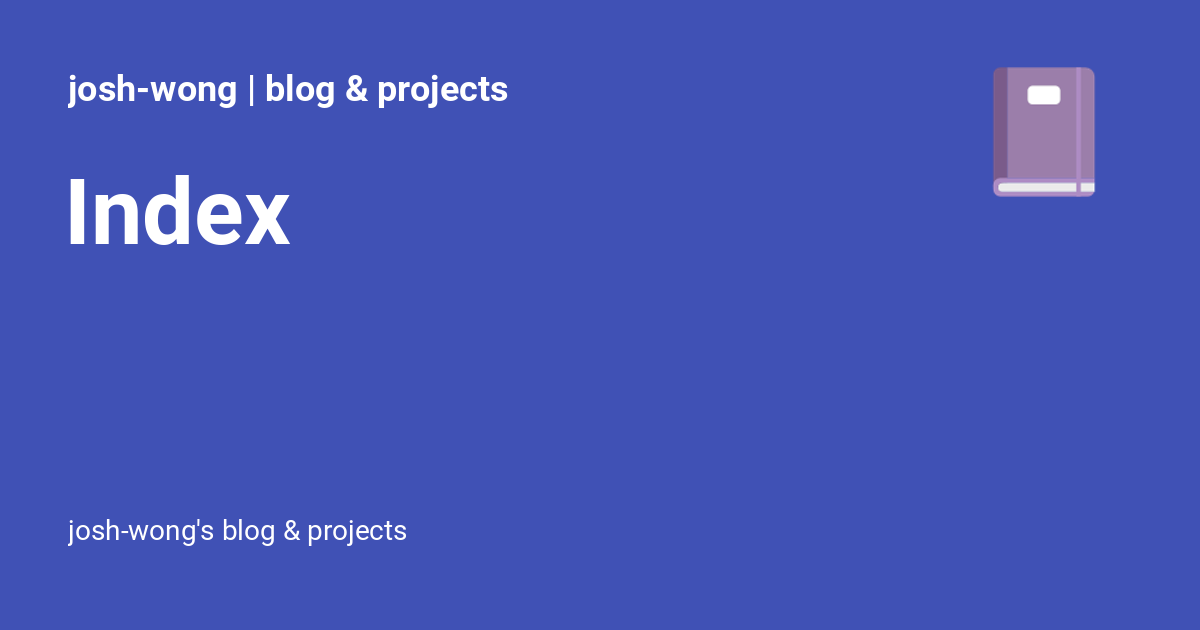
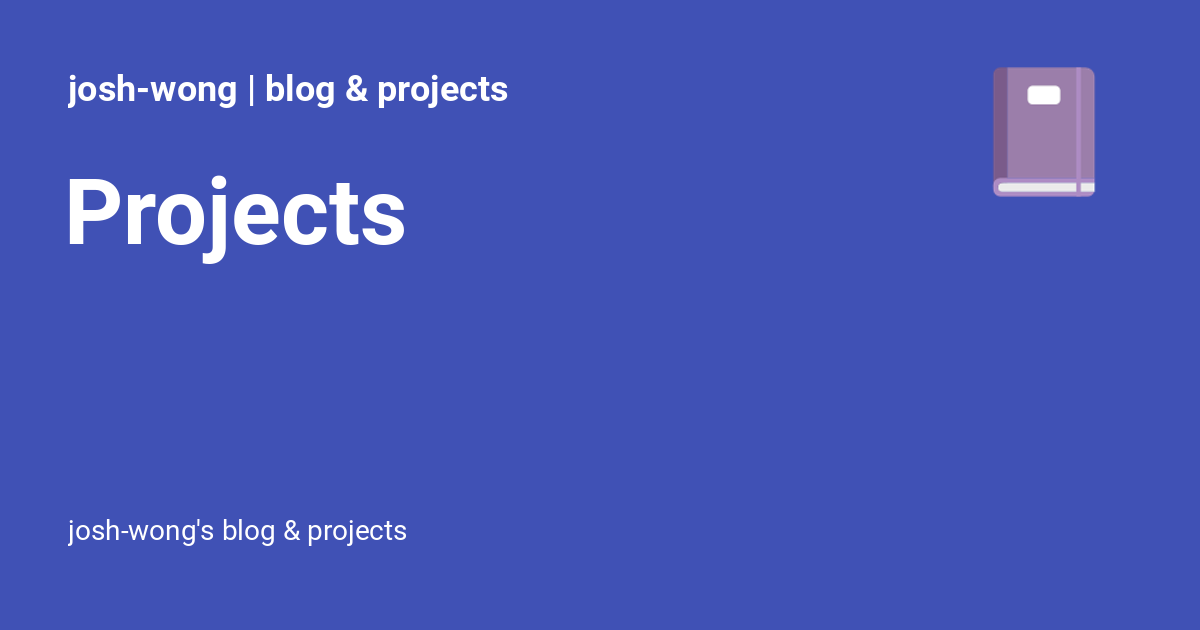
Deployed 4f7d2b0 with MkDocs version: 1.4.2

Changed region(s): [[0.0617, 0.2714, 0.3392, 0.4222]]

diff --git a/about/index.html b/about/index.html
@@ -1249,12 +1249,12 @@
 
 <h1 id="about-me">About me<a class="headerlink" href="#about-me" title="Permanent link">&para;</a></h1>
 <p>Hey there! My name is <a href="https://github.com/josh-wong/">Josh</a>, and I'm a <abbr title="A professional information communicator whose task is to transfer information between two or more parties">technical writer</abbr> and <abbr title="The collection of methods relating to creating, sharing, using, and managing the knowledge and information of an organization">knowledge management</abbr> specialist. </p>
-<p>I enjoy writing, improving user experiences, learning new things, and sharing knowledge.</p>
+<p>I enjoy writing, improving user experiences, learning new things, and sharing knowledge💡</p>
 <h2 id="why-080f53com">Why "080f53.com"?<a class="headerlink" href="#why-080f53com" title="Permanent link">&para;</a></h2>
-<p>I like the hex color <a href="https://encycolorpedia.com/080f53" target="_blank"><strong>#080f53</strong></a>, which is dark blue-violet. For consistency between domain name and design, I've applied this color throughout the site.</p>
-<p>Also, finding unique domain names is hard.</p>
+<p>I like the hex color <a href="https://encycolorpedia.com/080f53" target="_blank"><strong>#080f53</strong></a>, which is dark blue-violet.</p>
+<p>Also, finding unique domain names is hard😅</p>
 <h2 id="contact">Contact<a class="headerlink" href="#contact" title="Permanent link">&para;</a></h2>
-<p>Feel free to poke around and contact me if you have any questions!😊</p>
+<p>Feel free to poke around and contact me if you have any questions😊</p>
 <div class="grid cards">
 <ul>
 <li><span class="twemoji"><svg xmlns="http://www.w3.org/2000/svg" viewBox="0 0 448 512"><!--! Font Awesome Free 6.2.1 by @fontawesome - https://fontawesome.com License - https://fontawesome.com/license/free (Icons: CC BY 4.0, Fonts: SIL OFL 1.1, Code: MIT License) Copyright 2022 Fonticons, Inc.--><path d="M400 32H48C21.5 32 0 53.5 0 80v352c0 26.5 21.5 48 48 48h352c26.5 0 48-21.5 48-48V80c0-26.5-21.5-48-48-48zM277.3 415.7c-8.4 1.5-11.5-3.7-11.5-8 0-5.4.2-33 .2-55.3 0-15.6-5.2-25.5-11.3-30.7 37-4.1 76-9.2 76-73.1 0-18.2-6.5-27.3-17.1-39 1.7-4.3 7.4-22-1.7-45-13.9-4.3-45.7 17.9-45.7 17.9-13.2-3.7-27.5-5.6-41.6-5.6-14.1 0-28.4 1.9-41.6 5.6 0 0-31.8-22.2-45.7-17.9-9.1 22.9-3.5 40.6-1.7 45-10.6 11.7-15.6 20.8-15.6 39 0 63.6 37.3 69 74.3 73.1-4.8 4.3-9.1 11.7-10.6 22.3-9.5 4.3-33.8 11.7-48.3-13.9-9.1-15.8-25.5-17.1-25.5-17.1-16.2-.2-1.1 10.2-1.1 10.2 10.8 5 18.4 24.2 18.4 24.2 9.7 29.7 56.1 19.7 56.1 19.7 0 13.9.2 36.5.2 40.6 0 4.3-3 9.5-11.5 8-66-22.1-112.2-84.9-112.2-158.3 0-91.8 70.2-161.5 162-161.5S388 165.6 388 257.4c.1 73.4-44.7 136.3-110.7 158.3zm-98.1-61.1c-1.9.4-3.7-.4-3.9-1.7-.2-1.5 1.1-2.8 3-3.2 1.9-.2 3.7.6 3.9 1.9.3 1.3-1 2.6-3 3zm-9.5-.9c0 1.3-1.5 2.4-3.5 2.4-2.2.2-3.7-.9-3.7-2.4 0-1.3 1.5-2.4 3.5-2.4 1.9-.2 3.7.9 3.7 2.4zm-13.7-1.1c-.4 1.3-2.4 1.9-4.1 1.3-1.9-.4-3.2-1.9-2.8-3.2.4-1.3 2.4-1.9 4.1-1.5 2 .6 3.3 2.1 2.8 3.4zm-12.3-5.4c-.9 1.1-2.8.9-4.3-.6-1.5-1.3-1.9-3.2-.9-4.1.9-1.1 2.8-.9 4.3.6 1.3 1.3 1.8 3.3.9 4.1zm-9.1-9.1c-.9.6-2.6 0-3.7-1.5s-1.1-3.2 0-3.9c1.1-.9 2.8-.2 3.7 1.3 1.1 1.5 1.1 3.3 0 4.1zm-6.5-9.7c-.9.9-2.4.4-3.5-.6-1.1-1.3-1.3-2.8-.4-3.5.9-.9 2.4-.4 3.5.6 1.1 1.3 1.3 2.8.4 3.5zm-6.7-7.4c-.4.9-1.7 1.1-2.8.4-1.3-.6-1.9-1.7-1.5-2.6.4-.6 1.5-.9 2.8-.4 1.3.7 1.9 1.8 1.5 2.6z"/></svg></span> <strong><a href="https://github.com/josh-wong">GitHub</a></strong></li>

diff --git a/projects/index.html b/projects/index.html
@@ -24,7 +24,7 @@
     
     
       
-        <title>Index - josh-wong | blog & projects</title>
+        <title>Projects - josh-wong | blog & projects</title>
       
     
     
@@ -112,7 +112,7 @@
       
         <meta  property="og:type"  content="website" >
       
-        <meta  property="og:title"  content="Index - josh-wong | blog & projects" >
+        <meta  property="og:title"  content="Projects - josh-wong | blog & projects" >
       
         <meta  property="og:description"  content="josh-wong's blog & projects" >
       
@@ -128,7 +128,7 @@
       
         <meta  name="twitter:card"  content="summary_large_image" >
       
-        <meta  name="twitter:title"  content="Index - josh-wong | blog & projects" >
+        <meta  name="twitter:title"  content="Projects - josh-wong | blog & projects" >
       
         <meta  name="twitter:description"  content="josh-wong's blog & projects" >
       
@@ -153,6 +153,11 @@
     <input class="md-toggle" data-md-toggle="search" type="checkbox" id="__search" autocomplete="off">
     <label class="md-overlay" for="__drawer"></label>
     <div data-md-component="skip">
+      
+        
+        <a href="#projects" class="md-skip">
+          Skip to content
+        </a>
       
     </div>
     <div data-md-component="announce">
@@ -184,7 +189,7 @@
         <div class="md-header__topic" data-md-component="header-topic">
           <span class="md-ellipsis">
             
-              Index
+              Projects
             
           </span>
         </div>
@@ -1134,6 +1139,8 @@
   
   
   
+    
+  
   
 </nav>
                   </div>
@@ -1156,8 +1163,7 @@
   </a>
 
 
-  <h1>Index</h1>
-
+<h1 id="projects">Projects<a class="headerlink" href="#projects" title="Permanent link">&para;</a></h1>
 <p>The following are projects that I've worked on and continue to review on a normal basis.</p>
 <div class="grid cards">
 <ul>
@@ -1221,7 +1227,7 @@
                 
               
               
-                Thanks for your feedback! Help me improve this page by <a href="https://github.com/josh-wong/josh-wong.github.io/issues/new/?title=[Feedback]+Index+-+/projects/" target="_blank" rel="noopener">creating an issue in GitHub</a>.
+                Thanks for your feedback! Help me improve this page by <a href="https://github.com/josh-wong/josh-wong.github.io/issues/new/?title=[Feedback]+Projects+-+/projects/" target="_blank" rel="noopener">creating an issue in GitHub</a>.
               
             </div>
           

diff --git a/projects/notes/index.html b/projects/notes/index.html
@@ -1260,7 +1260,7 @@
     <nav class="md-footer__inner md-grid" aria-label="Footer" >
       
         
-        <a href="../" class="md-footer__link md-footer__link--prev" aria-label="Previous: Index" rel="prev">
+        <a href="../" class="md-footer__link md-footer__link--prev" aria-label="Previous: Projects" rel="prev">
           <div class="md-footer__button md-icon">
             <svg xmlns="http://www.w3.org/2000/svg" viewBox="0 0 24 24"><path d="M20 11v2H8l5.5 5.5-1.42 1.42L4.16 12l7.92-7.92L13.5 5.5 8 11h12Z"/></svg>
           </div>
@@ -1269,7 +1269,7 @@
               <span class="md-footer__direction">
                 Previous
               </span>
-              Index
+              Projects
             </div>
           </div>
         </a>

diff --git a/blog/category/software-engineering/index.html b/blog/category/software-engineering/index.html
@@ -1255,13 +1255,13 @@
       
       
         
-        <a href="../../../projects/" class="md-footer__link md-footer__link--next" aria-label="Next: Index" rel="next">
+        <a href="../../../projects/" class="md-footer__link md-footer__link--next" aria-label="Next: Projects" rel="next">
           <div class="md-footer__title">
             <div class="md-ellipsis">
               <span class="md-footer__direction">
                 Next
               </span>
-              Index
+              Projects
             </div>
           </div>
           <div class="md-footer__button md-icon">
